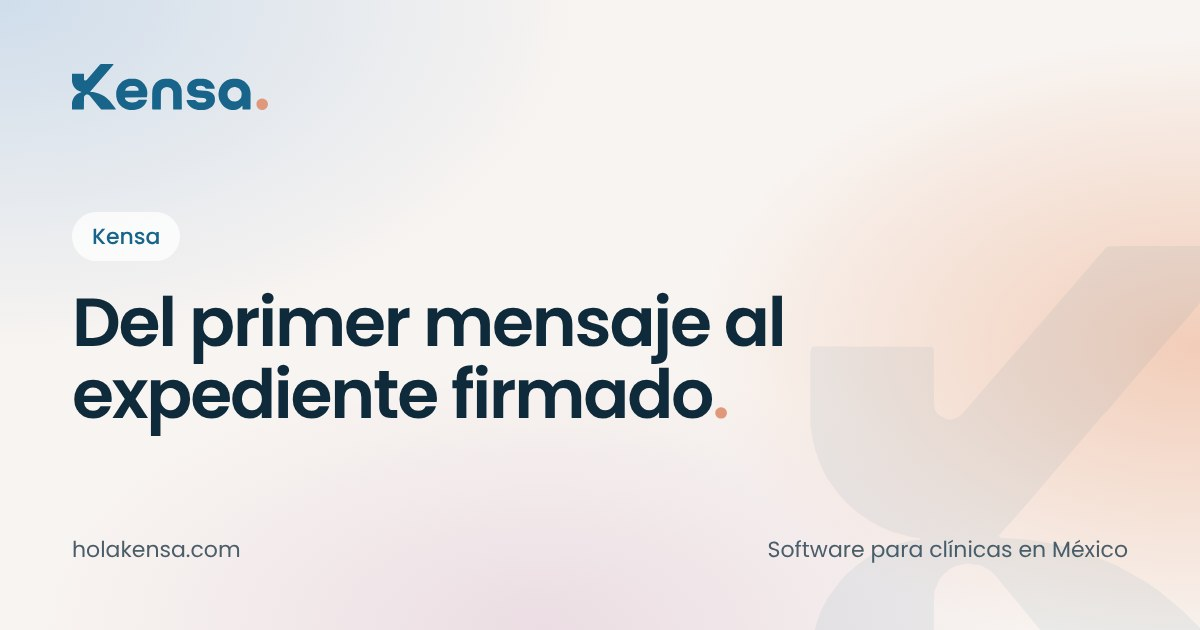
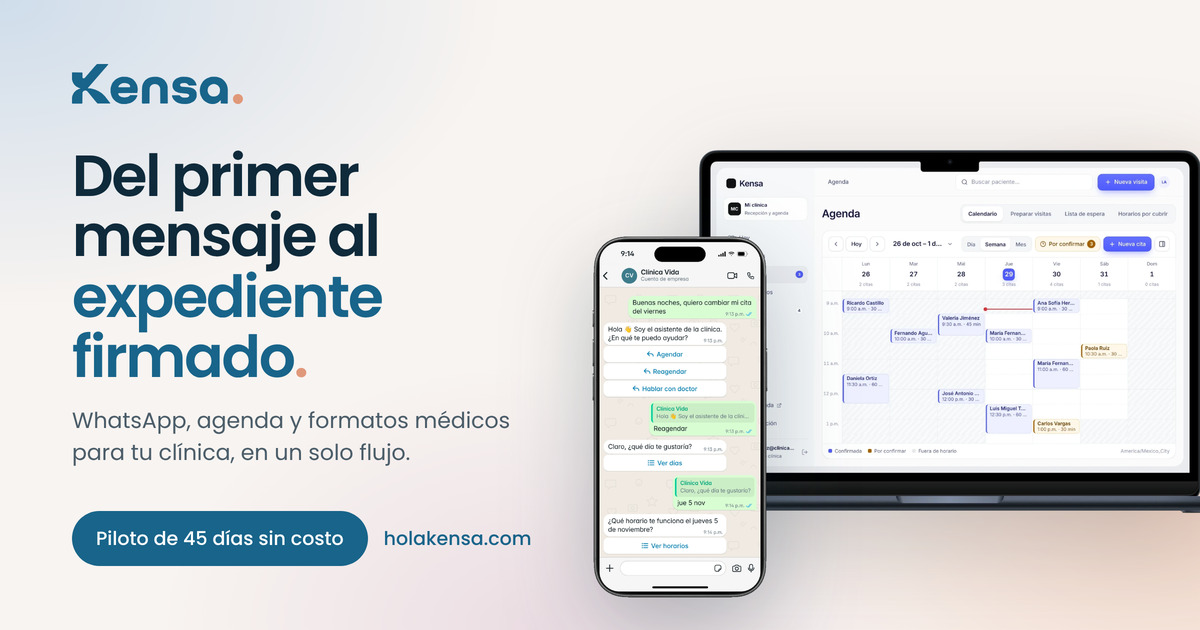
New link preview image for the homepage
Product shot (agenda laptop and WhatsApp assistant) with the headline and
the 45-day pilot; preview URLs versioned so social apps fetch the new one.

Claude-Session: https://claude.ai/code/session_011M2Km4mjQ81FTVHG1fYLiK

diff --git a/lib/schema.js b/lib/schema.js
@@ -10,8 +10,8 @@ export const organization = {
   name: 'Kensa',
   legalName: 'Sorta LLC',
   url: SITE,
-  logo: { '@type': 'ImageObject', url: `${SITE}/icons/icon-512.jpg`, width: 512, height: 512 },
-  image: `${SITE}/og/inicio.jpg`,
+  logo: { '@type': 'ImageObject', url: `${SITE}/icons/icon-512.jpg?v=2`, width: 512, height: 512 },
+  image: `${SITE}/og/inicio.jpg?v=2`,
   email: 'contacto@holakensa.com',
   description: PAGES['/'].description,
   areaServed: { '@type': 'Country', name: 'México' },
@@ -39,7 +39,7 @@ export const software = {
   operatingSystem: 'Web',
   inLanguage: 'es-MX',
   description: PAGES['/'].description,
-  image: `${SITE}/og/inicio.jpg`,
+  image: `${SITE}/og/inicio.jpg?v=2`,
   screenshot: `${SITE}/img/hero-laptop-agenda.webp`,
   publisher: { '@id': ORG_ID },
   areaServed: { '@type': 'Country', name: 'México' },
@@ -91,7 +91,7 @@ export function webPage(path, type = 'WebPage', extra = {}) {
     description: p ? p.description : undefined,
     inLanguage: 'es-MX',
     isPartOf: { '@id': SITE_ID },
-    primaryImageOfPage: `${SITE}/og/${path.replace(/^\/|\/$/g, '').replace(/\//g, '-') || 'inicio'}.jpg`,
+    primaryImageOfPage: `${SITE}/og/${path.replace(/^\/|\/$/g, '').replace(/\//g, '-') || 'inicio'}.jpg?v=2`,
     ...extra,
   };
 }

diff --git a/app/layout.jsx b/app/layout.jsx
@@ -11,7 +11,7 @@ export const metadata = {
   publisher: 'Kensa',
   formatDetection: { telephone: false, email: false, address: false },
   robots: { index: true, follow: true, googleBot: { index: true, follow: true, 'max-image-preview': 'large', 'max-snippet': -1 } },
-  openGraph: { siteName: 'Kensa', locale: 'es_MX', type: 'website', images: [{ url: '/og/inicio.jpg', width: 1200, height: 630 }] },
+  openGraph: { siteName: 'Kensa', locale: 'es_MX', type: 'website', images: [{ url: '/og/inicio.jpg?v=2', width: 1200, height: 630 }] },
 };
 
 export const viewport = { width: 'device-width', initialScale: 1, themeColor: '#F9F4F0' };

diff --git a/lib/seo.js b/lib/seo.js
@@ -11,7 +11,7 @@ export function ogKey(path) {
 }
 
 export function buildMeta({ path, title, description, type = 'website', extra = {} }) {
-  const image = { url: `/og/${ogKey(path)}.jpg`, width: 1200, height: 630, alt: title };
+  const image = { url: `/og/${ogKey(path)}.jpg?v=2`, width: 1200, height: 630, alt: title };
   return {
     title: { absolute: title },
     description,

diff --git a/app/recursos/[slug]/page.jsx b/app/recursos/[slug]/page.jsx
@@ -37,7 +37,7 @@ export default async function Page({ params }) {
     description: post.description || post.lead,
     url,
     mainEntityOfPage: url,
-    image: `${SITE}/og/recursos-${slug}.jpg`,
+    image: `${SITE}/og/recursos-${slug}.jpg?v=2`,
     datePublished: iso[0],
     dateModified: iso[iso.length - 1],
     inLanguage: 'es-MX',
